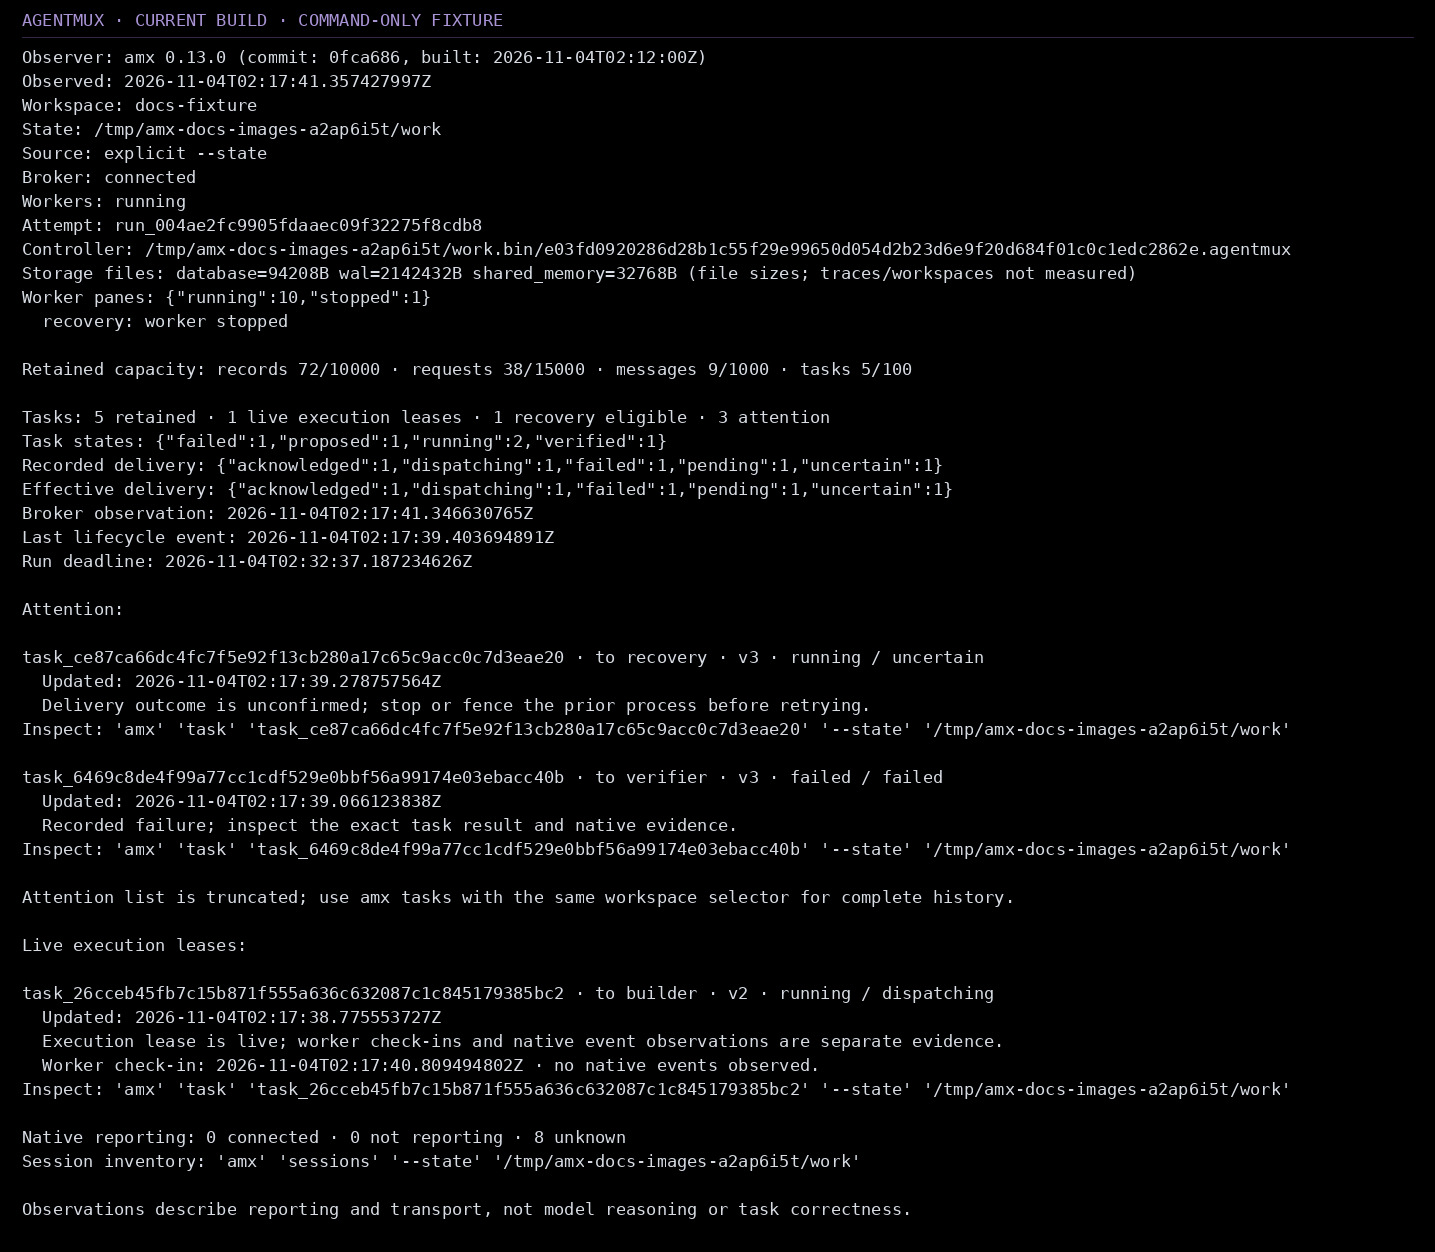
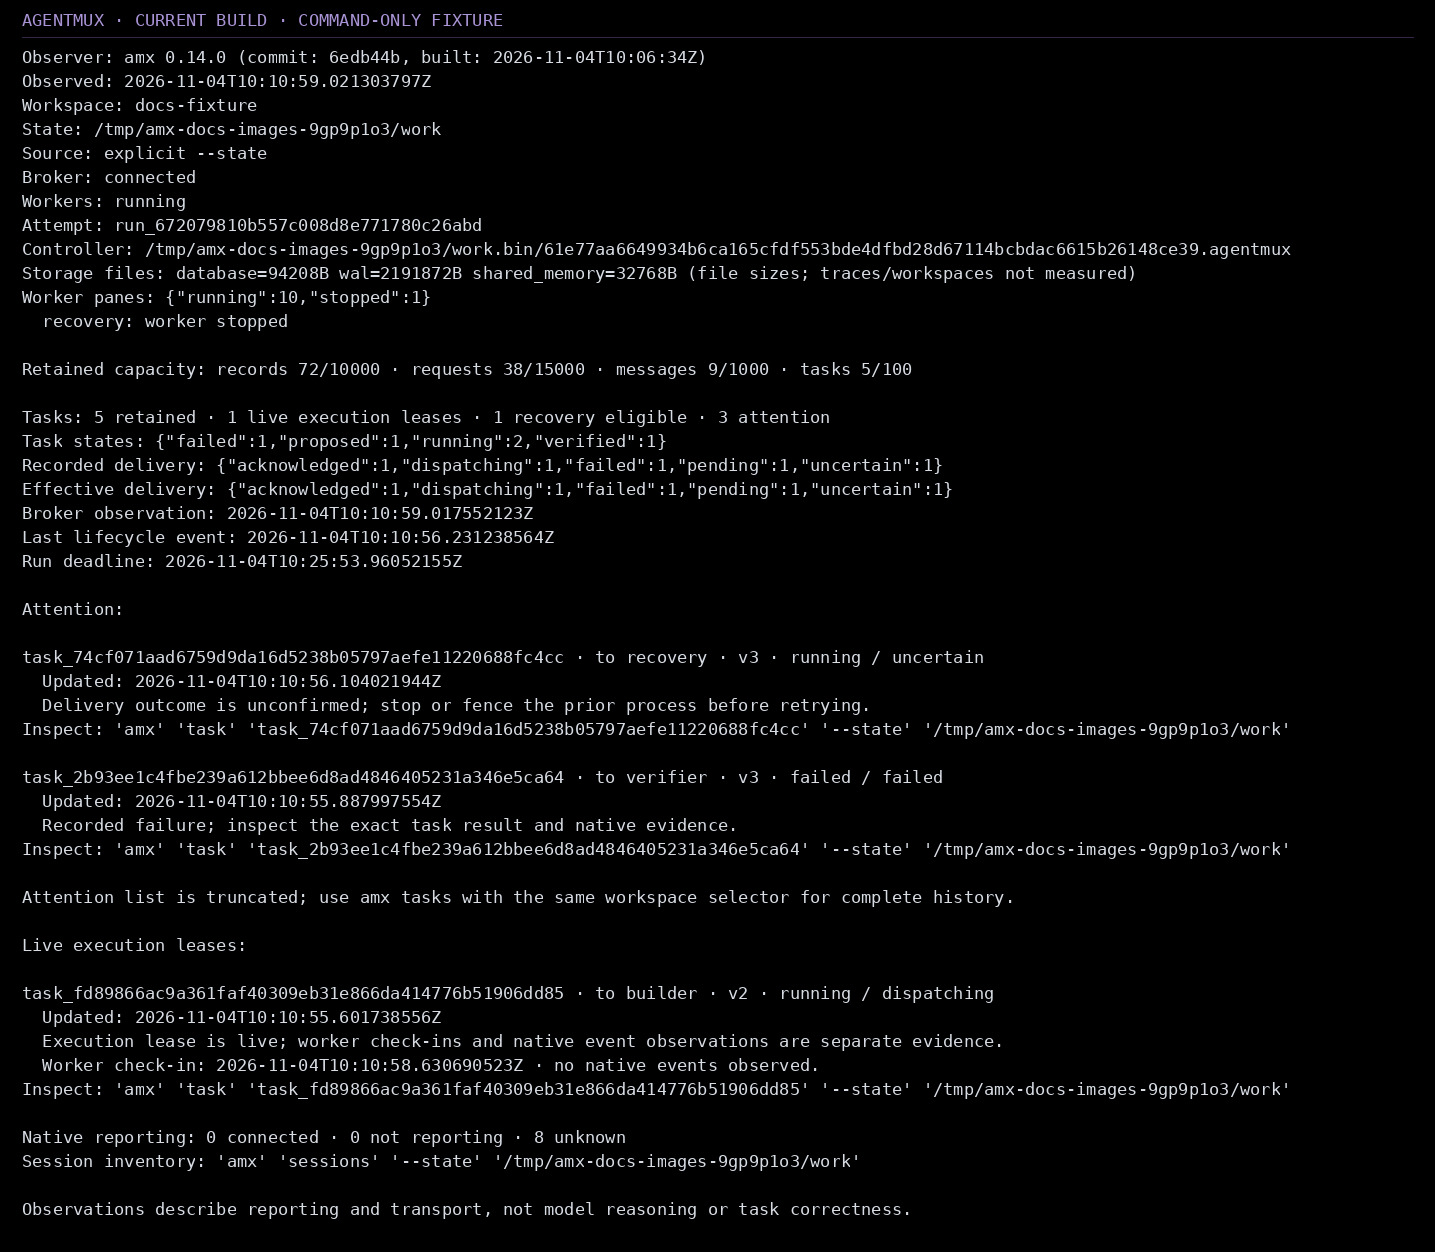
docs: refresh all guide captures from published v0.14.0

diff --git a/docs/visual-guide.md b/docs/visual-guide.md
@@ -18,8 +18,8 @@ installed and authenticated separately. A new installation does not replace
 an existing workspace's pinned controller; use a fresh workspace for all current
 features, or [upgrade deliberately](traces-and-recovery.md).
 
-Screenshots were captured on **2026-11-04** from source **0fca686e0f2f**,
-using **amx 0.13.0**, in disposable command-only workspaces and a scripted research trial with explicitly
+Screenshots were captured on **2026-11-04** from source **6edb44bbcc91**,
+using **amx 0.14.0**, in disposable command-only workspaces and a scripted research trial with explicitly
 trusted local execution. They show real current controls; they measure neither
 model quality nor isolation. Terminal images render live tmux captures with
 trailing empty rows cropped. [Capture provenance](assets/guide/capture-provenance.json)
@@ -54,7 +54,7 @@ and private result location. It starts no models and creates no run files.
 Replace `go test ./...` with the executable and arguments that verify your task.
 The text after `--` is literal argv; use an owner-maintained script for shell logic.
 
-[![Actual offline report from amx demo with retained check evidence and a reviewable change](assets/guide/checked-work-report.jpg?v=9e8c23859bf8)](assets/guide/checked-work-report.jpg?v=9e8c23859bf8)
+[![Actual offline report from amx demo with retained check evidence and a reviewable change](assets/guide/checked-work-report.jpg?v=d3cdf4a8e036)](assets/guide/checked-work-report.jpg?v=d3cdf4a8e036)
 
 This is a real report from the deterministic `amx demo` fixture, with no model
 calls. The practical sequence for your own task is **preview → run → inspect →
@@ -130,7 +130,7 @@ for strict plan fields, isolated execution and exact saved-brief delivery.
 
 ## Navigate the terminal and web app
 
-[![Terminal workbench with session identities on the left and coordination on the right](assets/guide/terminal-board.jpg?v=1fee273e42f0)](assets/guide/terminal-board.jpg?v=1fee273e42f0)
+[![Terminal workbench with session identities on the left and coordination on the right](assets/guide/terminal-board.jpg?v=e301fabd23e6)](assets/guide/terminal-board.jpg?v=e301fabd23e6)
 
 The left column selects a **session**. **Tab** moves focus between the sidebar
 and content; the focused header is purple. Its task title can change; its Agentmux
@@ -161,13 +161,13 @@ between them; **Up/Down** changes only the focused identity. Its label is purple
 and shows the arrow hint. Focus changes preserve both selections and permissions.
 **h/l** or **Alt+Left/Right** also chooses a recipient. **Left/Right** still changes views.
 
-[![Searchable terminal session switcher distinguishes two poem sessions by title and stable ID](assets/guide/terminal-switcher.jpg?v=a7fb991ec145)](assets/guide/terminal-switcher.jpg?v=a7fb991ec145)
+[![Searchable terminal session switcher distinguishes two poem sessions by title and stable ID](assets/guide/terminal-switcher.jpg?v=b853fbe7fa87)](assets/guide/terminal-switcher.jpg?v=b853fbe7fa87)
 
 Search results show titles, IDs, projects and providers. **Enter** opens a
 workspace-owned native terminal; an external observation opens its details.
 **Tab** keeps you in the current workbench view and changes its selected session.
 
-[![Searchable Actions menu with shortcuts and exact session targets](assets/guide/terminal-actions.jpg?v=dc534792a142)](assets/guide/terminal-actions.jpg?v=dc534792a142)
+[![Searchable Actions menu with shortcuts and exact session targets](assets/guide/terminal-actions.jpg?v=6087783816df)](assets/guide/terminal-actions.jpg?v=6087783816df)
 
 Use **Ctrl+K** when unsure what to press. Actions opens the appropriate editor
 or review, with the target and unavailable reasons shown before a change.
@@ -181,7 +181,7 @@ Open the web control center with:
 amx web -s daily --open
 ```
 
-[![Web board filtered to a specific collaboration pair](assets/guide/web-board.jpg?v=1d865859912c)](assets/guide/web-board.jpg?v=1d865859912c)
+[![Web board filtered to a specific collaboration pair](assets/guide/web-board.jpg?v=92dda425664d)](assets/guide/web-board.jpg?v=92dda425664d)
 
 The web sidebar selects a session; the main tabs expose its controls and the
 workspace's records. **Board** filters communication, **Connections** controls
@@ -286,7 +286,7 @@ amx board "The API proposal is ready." --group GROUP_ID -s daily
 amx send api-review "Read the proposal when useful." --mode note -s daily
 ```
 
-[![Owner collaboration groups show exact members board and memory namespaces and group controls](assets/guide/web-groups.jpg?v=cf97095a2178)](assets/guide/web-groups.jpg?v=cf97095a2178)
+[![Owner collaboration groups show exact members board and memory namespaces and group controls](assets/guide/web-groups.jpg?v=7faa7d74bfb1)](assets/guide/web-groups.jpg?v=7faa7d74bfb1)
 
 A board post is visible to that board's authorized readers. A direct note has
 explicit recipients. An everyone-readable board is possible when configured
@@ -296,9 +296,9 @@ overlapping membership when testing independent information boundaries.
 In web Board, choose **Shared boards**, select the exact board and click
 **Search** to apply that scope.
 
-[![Terminal Connections view labels sender and recipient and explains note ping and command permissions](assets/guide/terminal-connections.jpg?v=872aca32fed2)](assets/guide/terminal-connections.jpg?v=872aca32fed2)
+[![Terminal Connections view labels sender and recipient and explains note ping and command permissions](assets/guide/terminal-connections.jpg?v=1d51cfd74306)](assets/guide/terminal-connections.jpg?v=1d51cfd74306)
 
-[![Web relationship graph with directional permission and receiver-delivery explanations](assets/guide/web-connections.jpg?v=0e6134c1ca54)](assets/guide/web-connections.jpg?v=0e6134c1ca54)
+[![Web relationship graph with directional permission and receiver-delivery explanations](assets/guide/web-connections.jpg?v=0fd3a75200c7)](assets/guide/web-connections.jpg?v=0fd3a75200c7)
 
 Use **Connections → List view** to search an exact pair when the graph is busy;
 the list pages 50 entries at a time and supports arrows and Enter. Inspect the
@@ -413,7 +413,7 @@ workspace's owned processes and retains their saved data.
 
 ## Private and shared memory
 
-[![Shared memory editor shows the selected pair namespace an agreed plan and its version](assets/guide/web-memory.jpg?v=60ca91219e5e)](assets/guide/web-memory.jpg?v=60ca91219e5e)
+[![Shared memory editor shows the selected pair namespace an agreed plan and its version](assets/guide/web-memory.jpg?v=355480b85d69)](assets/guide/web-memory.jpg?v=355480b85d69)
 
 Private memory belongs to one authenticated agent. Shared memory belongs to an
 explicit namespace with separate read/write access. Neither is an automatic
@@ -464,7 +464,7 @@ v0.13.0 prints a copyable open command after `amx task TASK_ID`:
 amx task TASK_ID --open -s daily
 ```
 
-[![Terminal Tasks view pinned to one exact task with its version, evidence and recovery controls](assets/guide/terminal-task-recovery.jpg?v=dbaaea1ab1ad)](assets/guide/terminal-task-recovery.jpg?v=dbaaea1ab1ad)
+[![Terminal Tasks view pinned to one exact task with its version, evidence and recovery controls](assets/guide/terminal-task-recovery.jpg?v=0e9ed39b4995)](assets/guide/terminal-task-recovery.jpg?v=0e9ed39b4995)
 
 The view reads that exact record, including older tasks and retired recipients;
 it never substitutes a newer task that mentions the ID. Inspect the instruction,
@@ -473,7 +473,7 @@ each action reviews the exact task/version before confirmation. Opening the
 view does not retry or resolve anything. Check the prior process and side
 effects before choosing retry.
 
-[![Web Tasks opened for a selected session with exact recipient filtering and retained history](assets/guide/web-session-tasks.jpg?v=9efe08dbe0c7)](assets/guide/web-session-tasks.jpg?v=9efe08dbe0c7)
+[![Web Tasks opened for a selected session with exact recipient filtering and retained history](assets/guide/web-session-tasks.jpg?v=a62a57b2a38b)](assets/guide/web-session-tasks.jpg?v=a62a57b2a38b)
 
 In terminal or web Actions, **Tasks for selected session** goes directly to a
 recipient's retained history. Web attention rows also have **Inspect tasks**,
@@ -509,7 +509,7 @@ Set finite turn, hop, backlog, concurrency and runtime limits. A message-trigger
 observation is attributed data, not a new owner instruction. See
 [persistent workflows](autonomous-workflows.md) for the configuration.
 
-[![Tasks view shows complete retained counts and attention for pending and failed deliveries](assets/guide/web-tasks.jpg?v=ac69b633c2e5)](assets/guide/web-tasks.jpg?v=ac69b633c2e5)
+[![Tasks view shows complete retained counts and attention for pending and failed deliveries](assets/guide/web-tasks.jpg?v=19ad3ea7cd2a)](assets/guide/web-tasks.jpg?v=19ad3ea7cd2a)
 
 Observe **Tasks** for complete retained counts, attention filters, exact
 recipients, results and adapter evidence. Search or load older pages rather than
@@ -519,7 +519,7 @@ an already running task separately.
 
 ## Dynamic teams and recruitment
 
-[![Consented team details show its creator current members effective access and membership version](assets/guide/web-teams.jpg?v=f72d92ace130)](assets/guide/web-teams.jpg?v=f72d92ace130)
+[![Consented team details show its creator current members effective access and membership version](assets/guide/web-teams.jpg?v=26ca0a62c499)](assets/guide/web-teams.jpg?v=26ca0a62c499)
 
 Two mechanisms serve different purposes:
 
@@ -603,7 +603,7 @@ For slower exploration, make a separate manifest and team with explicitly larger
 trial, phase and runtime limits; use a new output path. Pausing does not extend
 any of those deadlines.
 
-[![Live research console shows one completed coordination phase a paused decision boundary and reasoned intervention controls](assets/guide/web-research.jpg?v=5fa82a1d3f65)](assets/guide/web-research.jpg?v=5fa82a1d3f65)
+[![Live research console shows one completed coordination phase a paused decision boundary and reasoned intervention controls](assets/guide/web-research.jpg?v=8318adf0735d)](assets/guide/web-research.jpg?v=8318adf0735d)
 
 The research screenshots show a one-condition demo. The bundled public-goods
 smoke plans six trials across its conditions and seeds.
@@ -629,7 +629,7 @@ a live pause, not a terminated runner. `--start-paused` pauses every new attempt
 it also takes precedence over a carried unused step. Deadlines and budgets keep
 counting while paused.
 
-[![Research intervention form requires an action reason and review before applying](assets/guide/web-research-control.jpg?v=c3f12cf403fc)](assets/guide/web-research-control.jpg?v=c3f12cf403fc)
+[![Research intervention form requires an action reason and review before applying](assets/guide/web-research-control.jpg?v=b454120a775f)](assets/guide/web-research-control.jpg?v=b454120a775f)
 
 ### Design cooperation and competition comparisons
 
@@ -661,7 +661,7 @@ count, declare preregistration and a positive model-task budget, then explicitly
 use `--allow-models`. Supported limits count admissions or native tasks, not a
 hard external dollar cap. See [research design and analysis](research.md).
 
-[![A scripted research team contains Alice and Bob while Charlie remains outside it](assets/guide/web-research-teams.jpg?v=cbde20a18a16)](assets/guide/web-research-teams.jpg?v=cbde20a18a16)
+[![A scripted research team contains Alice and Bob while Charlie remains outside it](assets/guide/web-research-teams.jpg?v=e9910402cec4)](assets/guide/web-research-teams.jpg?v=e9910402cec4)
 
 The demo above exercises actual invitation, acceptance and namespace access.
 Its Alice/Bob coalition is scripted; measuring model self-organization requires

diff --git a/README.md b/README.md
@@ -52,7 +52,7 @@ two native turns. Requested changes retain the full four-turn review loop,
 and final acceptance checks always run. Skipped phases
 remain explicit in the saved evidence. Published v0.13.0 uses the full loop.
 
-[![Actual checked-result report from a model-free fixture, showing retained checks and a reviewable patch](docs/assets/guide/checked-work-report.jpg?v=9e8c23859bf8)](docs/visual-guide.md#ask-for-a-checked-coding-change)
+[![Actual checked-result report from a model-free fixture, showing retained checks and a reviewable patch](docs/assets/guide/checked-work-report.jpg?v=d3cdf4a8e036)](docs/visual-guide.md#ask-for-a-checked-coding-change)
 
 The report above comes from a command-only fixture. It demonstrates the evidence
 and application controls; it does not measure provider task quality.

diff --git a/docs/observability.md b/docs/observability.md
@@ -25,7 +25,7 @@ Agentmux [v0.14.0](getting-started/installation.md) adds structured collection d
 described below. Older v0.13.0 schema-1 captures remain readable; missing
 diagnostic timings stay unknown.
 
-![Actual amx observe output showing capacity, uncertain delivery and a live command-worker check-in](assets/guide/terminal-observability.jpg?v=d9ac7487da7c)
+![Actual amx observe output showing capacity, uncertain delivery and a live command-worker check-in](assets/guide/terminal-observability.jpg?v=3b3ac01704fa)
 
 The capture uses disposable command-only fixtures. The running worker reports a
 check-in and zero native model events; stopped delivery remains uncertain.

diff --git a/docs/working.md b/docs/working.md
@@ -13,7 +13,7 @@ response and second review. To inspect a
 checked fixture before configuring providers, start with
 [`amx demo`](getting-started/first-result.md).
 
-[![Actual offline report from the model-free demo, showing saved checks and the retained change](assets/guide/checked-work-report.jpg?v=9e8c23859bf8)](getting-started/first-result.md)
+[![Actual offline report from the model-free demo, showing saved checks and the retained change](assets/guide/checked-work-report.jpg?v=d3cdf4a8e036)](getting-started/first-result.md)
 
 The report above comes from `amx demo`, a deterministic fixture with no model
 calls. For your own task, the daily sequence is:
